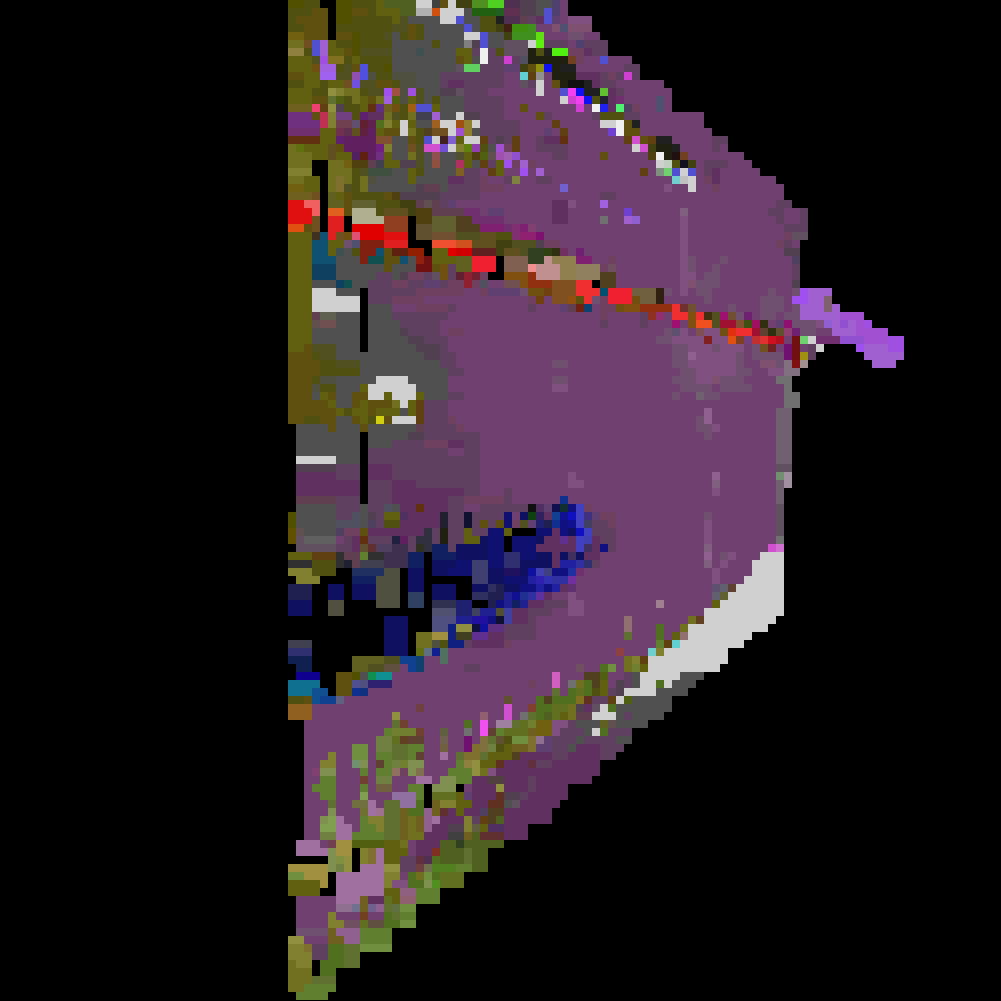
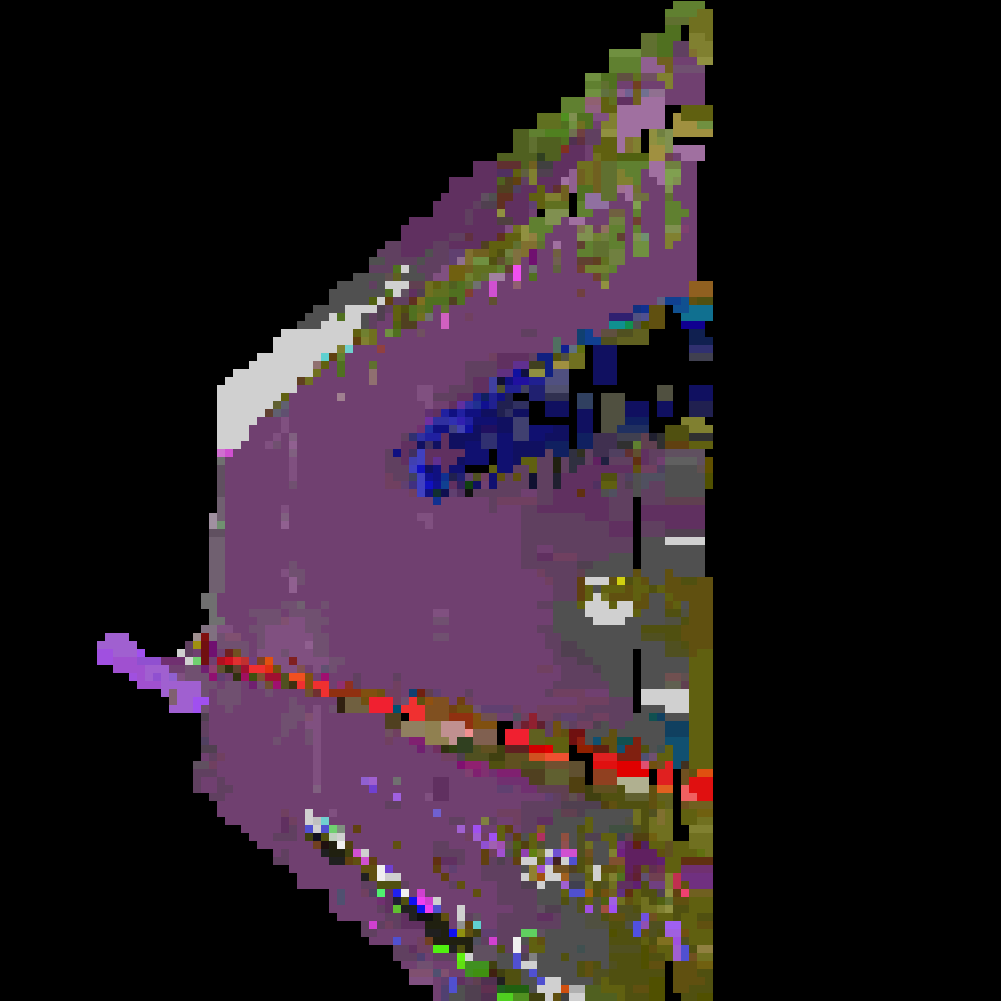
Another idea

diff --git a/3dVis/GenerateOccupancyMap2.py b/3dVis/GenerateOccupancyMap2.py
@@ -1,0 +1,59 @@
+import numpy as np
+import cv2
+
+image = np.zeros((1001, 1001, 3))
+file1 = open('pointCloud.pcd')
+Lines = file1.readlines()
+
+print(len(Lines))
+
+for x in range(1000):
+    for y in range(1000):
+        image[x][y][0] = 0
+        image[x][y][1] = 0
+        image[x][y][2] = 0
+
+for i in range(9, len(Lines)):
+    pixels = [int(float(x)) for x in Lines[i].split(' ')]
+
+    r = pixels[3]%256
+    pixels[3] -= r
+    g = (pixels[3]%65536)/256
+    pixels[3] -= 256*g
+    b = pixels[3]/65536
+    if pixels[2] < 1000 and pixels[1] < 1000  and pixels[2]>0 and pixels[1]>0:
+        image[1000 - pixels[1]][1000 - pixels[2]][0] = r
+        image[1000 - pixels[1]][1000 - pixels[2]][1] = g
+        image[1000 - pixels[1]][1000 - pixels[2]][2] = b
+
+image = cv2.rotate(image, cv2.ROTATE_90_COUNTERCLOCKWISE)
+
+r, g, b = 0, 0, 0
+lr, lg, lb = 0, 0, 0
+cut_off = 200
+for x in range(image.shape[0]):
+    for y in range(image.shape[1]):
+        if image[y][x][0] == 0 and lg < cut_off :
+            image[y][x][0] = r
+            lg += 1
+        else :
+            r = image[y][x][0]
+            lg = 0
+
+        if image[y][x][1] == 0 and lr < cut_off:
+            image[y][x][1] = g
+            lr += 1
+        else :
+            g = image[y][x][1]
+            lr = 0
+
+        if image[y][x][2] == 0 and lb <  cut_off:
+            image[y][x][2] = b
+            lb += 1
+        else :
+            b = image[y][x][2]
+            lb = 0
+
+
+
+cv2.imwrite('./maps/occupancy_map0'+'.png', image)
